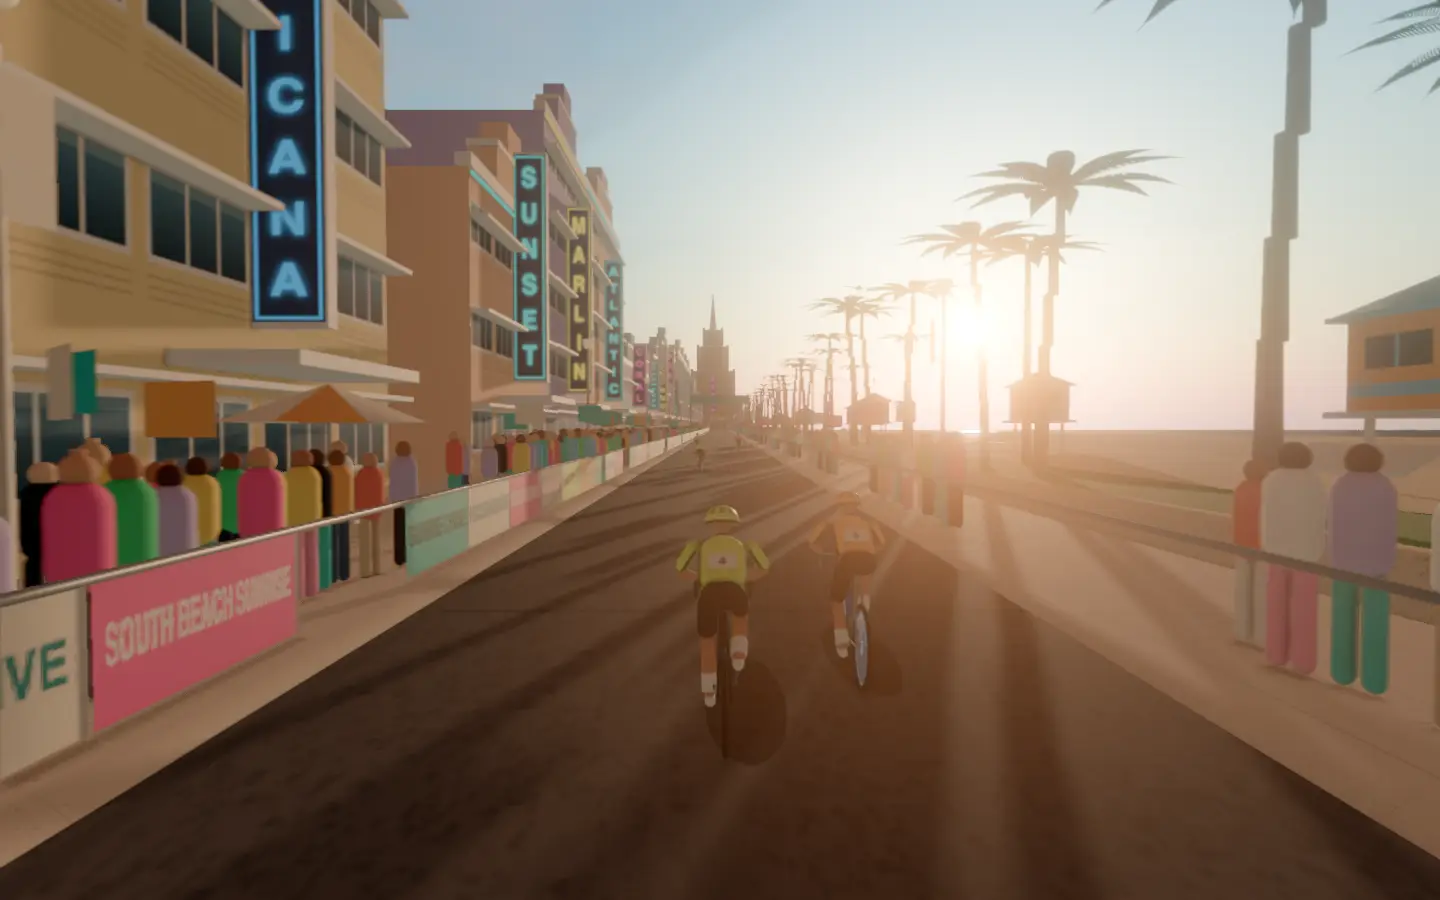
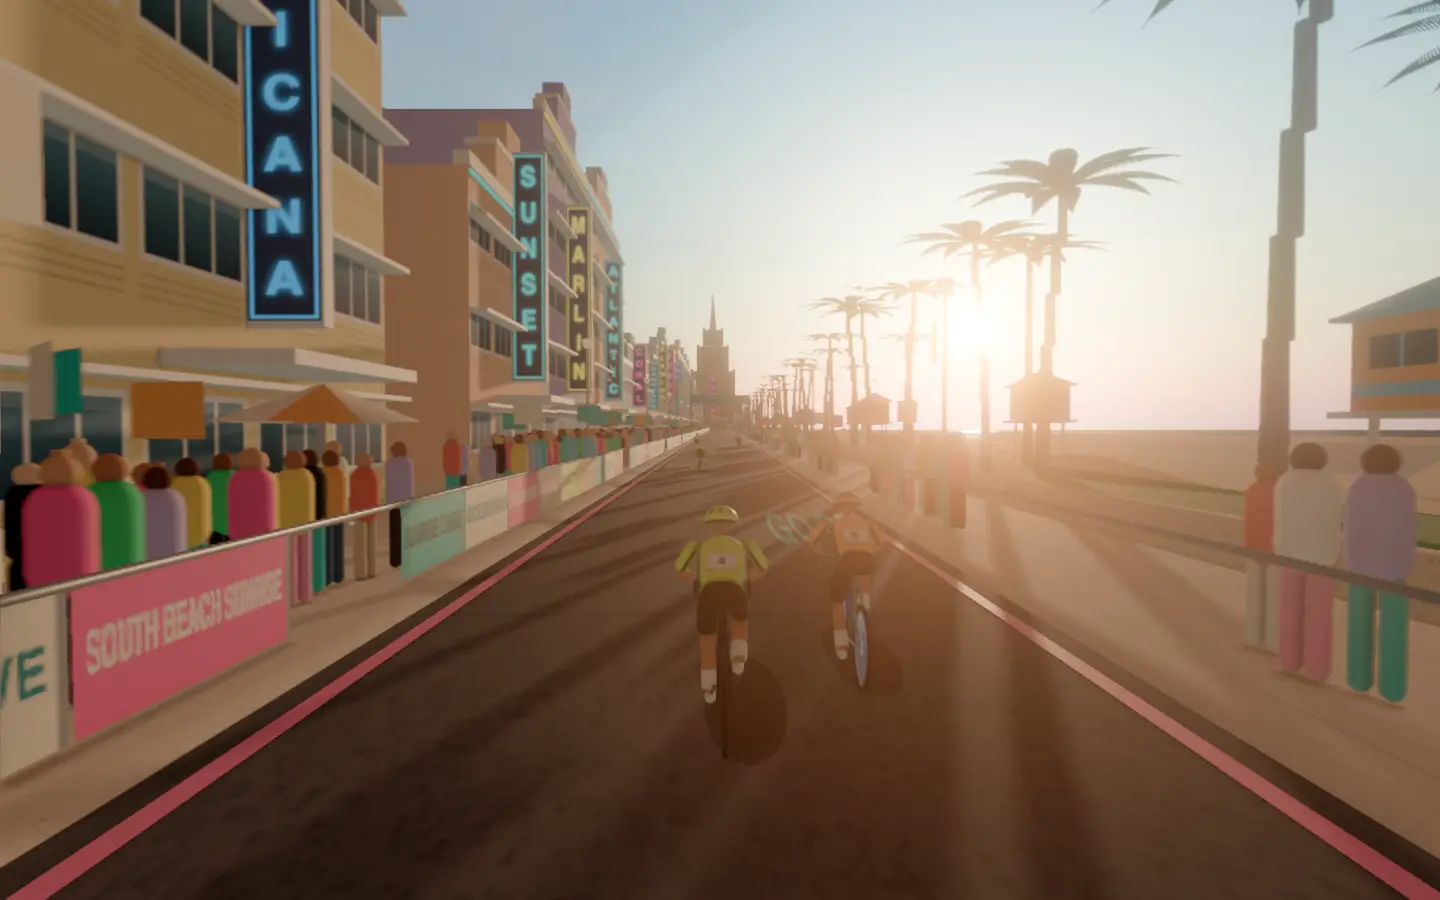
Paint South Beach's road: race-lane edges and writing that reads
Pink edge lines run down both sides of the race lane, and the fans' writing
now comes every 25 m beside the riders' line instead of every 97 m behind
them. Flat paint only reads in the first 25 m or so, so some is now always in
view. Render quality 72% -> 74% (road surface 5 -> 7).

diff --git a/frontend/projects/wattzup/src/app/core/world-southbeach.ts b/frontend/projects/wattzup/src/app/core/world-southbeach.ts
@@ -96,13 +96,25 @@ const STREET_BANNERS: readonly (readonly [string, string, string])[] = [
   ['OCEAN DRIVE', '#2fd3cf', '#1b1e24'],
   ['CHASE THE SUN', '#ffb23f', '#1b1e24'],
 ];
-/** What the fans paint on the road, its colour and how far off the centre line. */
+/**
+ * What the fans paint on the road, its colour and how far off the centre line: beside the
+ * riders' line, where it shows between them.
+ */
 const ROAD_PAINT: readonly (readonly [string, string, number])[] = [
-  ['SUNRISE', '#fdf5e4', -0.7],
-  ['VAMOS', '#ff9ec9', 0.8],
-  ['OCEAN DR', '#fdf5e4', 0.1],
-  ['GO GO', '#2fe6e0', -0.9],
+  ['SUNRISE', '#fdf5e4', -2.0],
+  ['VAMOS', '#ff9ec9', 2.0],
+  ['OCEAN DR', '#fdf5e4', -2.0],
+  ['GO GO', '#2fe6e0', 2.0],
+  ['SOBE', '#ffe14a', -2.0],
+  ['CHASE IT', '#fdf5e4', 2.0],
+  ['ALLEZ', '#ff9ec9', -2.0],
+  ['WATTZUP', '#d7ff3a', 2.0],
 ];
+/**
+ * Fans' writing on the tarmac every ROAD_PAINT_EVERY metres, twice round the list: flat paint
+ * reads only in the first 25 m or so ahead, so some must always be that close.
+ */
+const ROAD_PAINT_EVERY = 25;
 /** Pennants on the lamp posts, in the race's colours. */
 const PENNANTS = ['#ff4fa8', '#2fd3cf', '#ffb23f', '#fdf5e4'];
 const SKINS = ['#f1c7a5', '#d9a17c', '#b67a55', '#8a5a3c', '#5e3b26', '#e2b48c'];
@@ -240,6 +252,20 @@ export class SouthBeachStreet implements SceneStreet {
       [SEA + 0.6, 0.04],
       [SEA - 1.2, 0.04],
     ]);
+    // The race lane's edges, painted in the race's pink down both sides of the tarmac.
+    const edge = this.material({
+      color: 0xff7ab8,
+      roughness: 0.6,
+      polygonOffset: true,
+      polygonOffsetFactor: -2,
+    });
+    for (const side of [-1, 1]) {
+      const x = side * (r - 0.35);
+      this.ribbons.add(points, edge, [
+        [x + 0.09, 0.006],
+        [x - 0.09, 0.006],
+      ]);
+    }
     // Race barriers along both kerbs, hung with the race's banners.
     for (const side of [-1, 1]) {
       const texture = this.track(barrierBannerTexture(BARRIER_PANELS));
@@ -559,25 +585,24 @@ export class SouthBeachStreet implements SceneStreet {
 
   /** What the fans have painted on the tarmac. */
   private addRoadPaint(): void {
-    const plane = new PlaneGeometry(3.2, 7);
+    const plane = new PlaneGeometry(2.6, 9);
     this.disposables.push(plane);
-    ROAD_PAINT.forEach(([text, colour, x], i) => {
+    [...ROAD_PAINT, ...ROAD_PAINT].forEach(([text, colour, x], i) => {
       const material = this.material({
         map: this.track(paintTexture(text, colour)),
-        transparent: true,
-        depthWrite: false,
+        alphaTest: 0.35,
         polygonOffset: true,
         polygonOffsetFactor: -2,
         roughness: 0.7,
       });
       const mesh = new Mesh(plane, material);
       mesh.rotation.x = -Math.PI / 2;
-      mesh.position.y = 0.01;
+      mesh.position.y = 0.02;
       mesh.receiveShadow = true;
       const holder = new Group();
       holder.add(mesh);
       this.group.add(holder);
-      this.props.push({ mesh: holder, offset: 30 + i * 97, every: LOOP, x });
+      this.props.push({ mesh: holder, offset: 30 + i * ROAD_PAINT_EVERY, every: LOOP, x });
     });
   }
 

diff --git a/docs/class-worlds.md b/docs/class-worlds.md
@@ -10,7 +10,7 @@ Every class in `frontend/public/classes.json`, with its World Ride scene. Render
 | 4 | 30 Min Tempo Paceline | Prairie Paceline | 35% | Open farmland at golden hour. Take long turns on the front, into the wind past the turbines. |
 | 5 | 60 Min Dolomites Endurance | Dolomites | 35% | A valley road under limestone peaks. Soft rollers, one steady level and long views. |
 | 6 | 60 Min Coastal Endurance + Surges | Cliffside Coast | 35% | A clifftop road at sunset with the sea on your right. Each tempo surge climbs a headland. |
-| 7 | Calorie Burning Workout | South Beach Sunrise | 72% | Pastel art deco hotels with neon fins face palms, lifeguard towers and the Atlantic along Miami Beach's Ocean Drive at sunrise. The two-minute opener and the six short efforts each chase the rising sun up a rise toward the deco tower at the end of the drive. |
+| 7 | Calorie Burning Workout | South Beach Sunrise | 74% | Pastel art deco hotels with neon fins face palms, lifeguard towers and the Atlantic along Miami Beach's Ocean Drive at sunrise. The two-minute opener and the six short efforts each chase the rising sun up a rise toward the deco tower at the end of the drive. |
 | 8 | Intense Interval Blast | Caribana Parade | 55% | Toronto's Lake Shore Boulevard at Caribbean Carnival; steel pans and feathered masqueraders, each interval a surge between bands. |
 | 9 | Quick But Brutal HIIT | Trinidad J'Ouvert (concept) |  | Port of Spain before dawn at Carnival, paint and mud flying; each sprint breaks through a soca crowd. |
 | 10 | Sprintavals | Knicks Championship Parade (concept) |  | Ticker tape over Manhattan's Canyon of Heroes for a Knicks NBA title; sprint between floats as orange-and-blue crowds roar. |

diff --git a/docs/detailed-designs/world-ride/draw-class-scene/README.md b/docs/detailed-designs/world-ride/draw-class-scene/README.md
@@ -99,7 +99,7 @@ None.
 - **South Beach's drive (`core/world-southbeach.ts`).** For `southbeach`:
   - pale pavements, race barriers hung with the race's banners, a coral-stone wall, the palm lawn, the sand, the surf line and the Atlantic out to the horizon on the right;
   - pastel art deco hotels on the left, two to five storeys, with eyebrow ledges over ribbon windows, stepped parapets, neon bands and a neon fin carrying each hotel's name, a side street opening between some of them;
-  - café terraces under striped umbrellas, royal palms, painted lifeguard towers on the sand, lamp posts flying pennants, cloth banners across the drive and the fans' writing on the tarmac;
+  - café terraces under striped umbrellas, royal palms, painted lifeguard towers on the sand, lamp posts flying pennants, cloth banners across the drive, the race lane's pink edge lines, and the fans' writing on the tarmac every 25 m beside the riders' line, so some is always close enough to read;
   - the shared crowd behind the barriers, one deep and in clusters on the beach side so the sand, the lifeguard towers and the sea show between them, and brown pelicans gliding along the shore on the street's clock;
   - the stepped deco tower at the end of the drive, its setbacks ringed in neon, hazed by hand.
 
